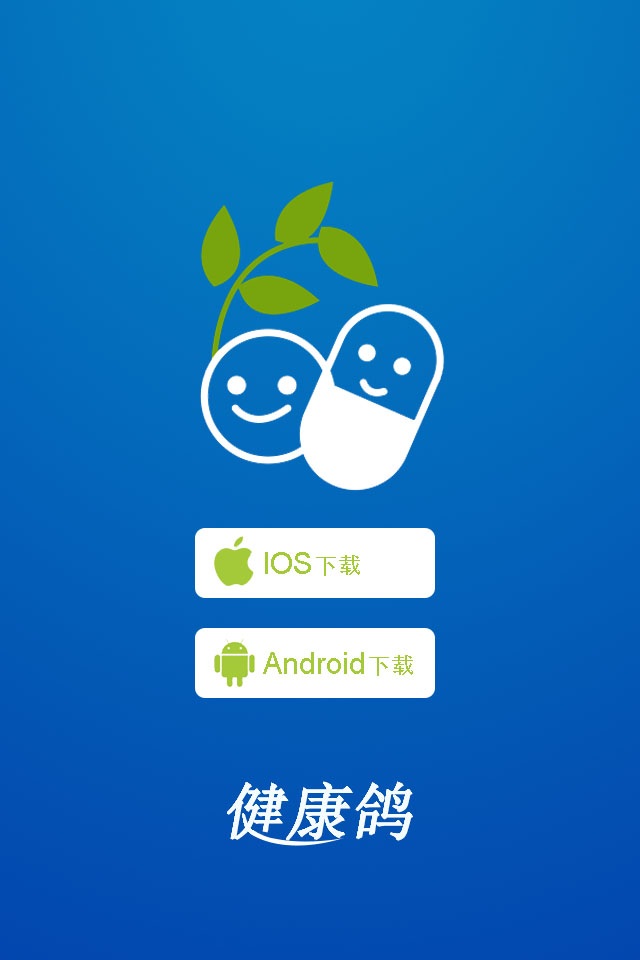
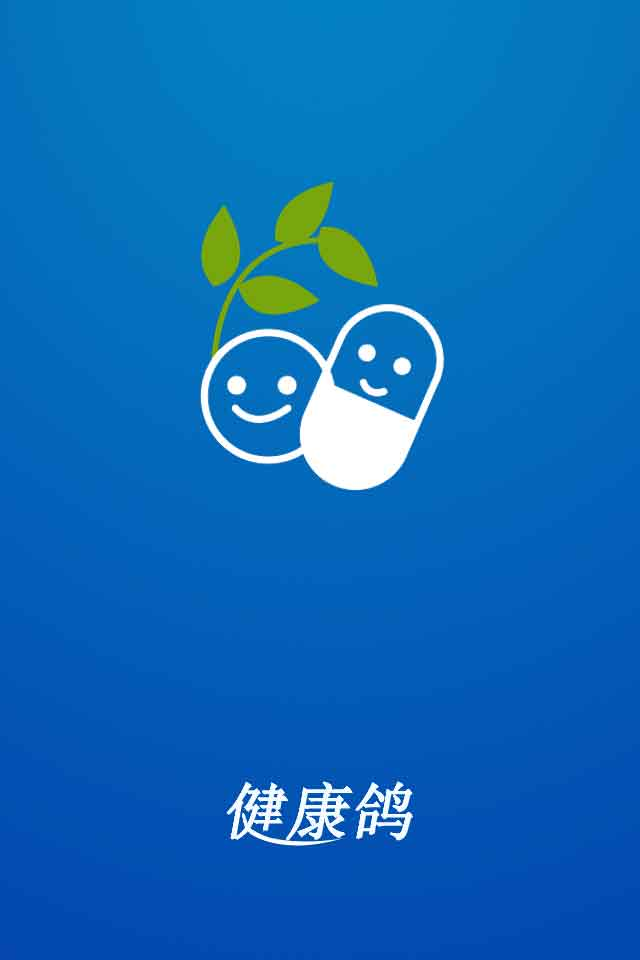
维系下载页

diff --git a/WDown/index.html b/WDown/index.html
@@ -46,15 +46,21 @@
 		ul li{
 			list-style-type: none;
 		}
+		.imgBtn{
+			border: 0px;
+			width: 100px;
+			height: 29px;
+			margin-bottom: 5px
+		}
 	</style>
 </head>
 <body>
 	<img src="img/1.jpg" style="width:100%;height:100%" id="img1"/>
-	<img src="img/2.png" style="width:100%;height:100%" id="img2"/>
+	<img src="img/2.jpg" style="width:100%;height:100%" id="img2"/>
 	<div id="divButton">
 		<ul>
-			<li><a href="###">ios</a></li>
-			<li><a href="###">Android</a></li>
+			<li><a href="https://itunes.apple.com/cn/app/jian-kang-ge/id982140060?mt=8"><img src="img/i.png" class="imgBtn"/></a></li>
+			<li><a href="http://www.bpccn.com/khx_Andriod.apk"><img src="img/a.png" class="imgBtn"/></a></li>
 		</ul>
 	</div>
 </body>
